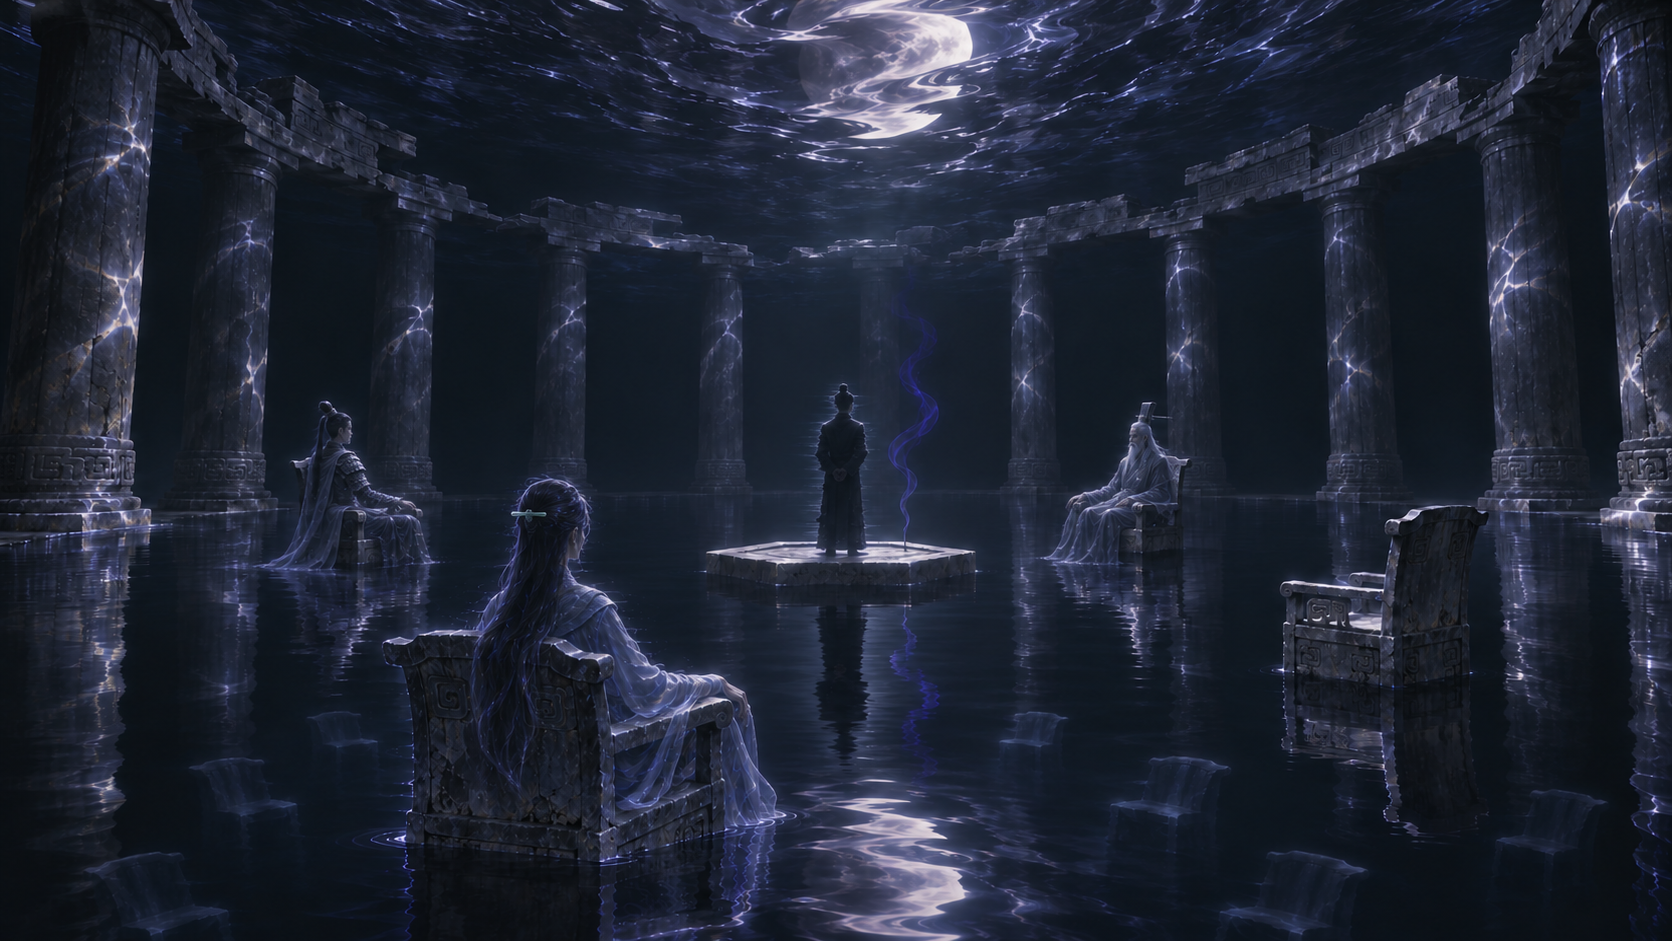
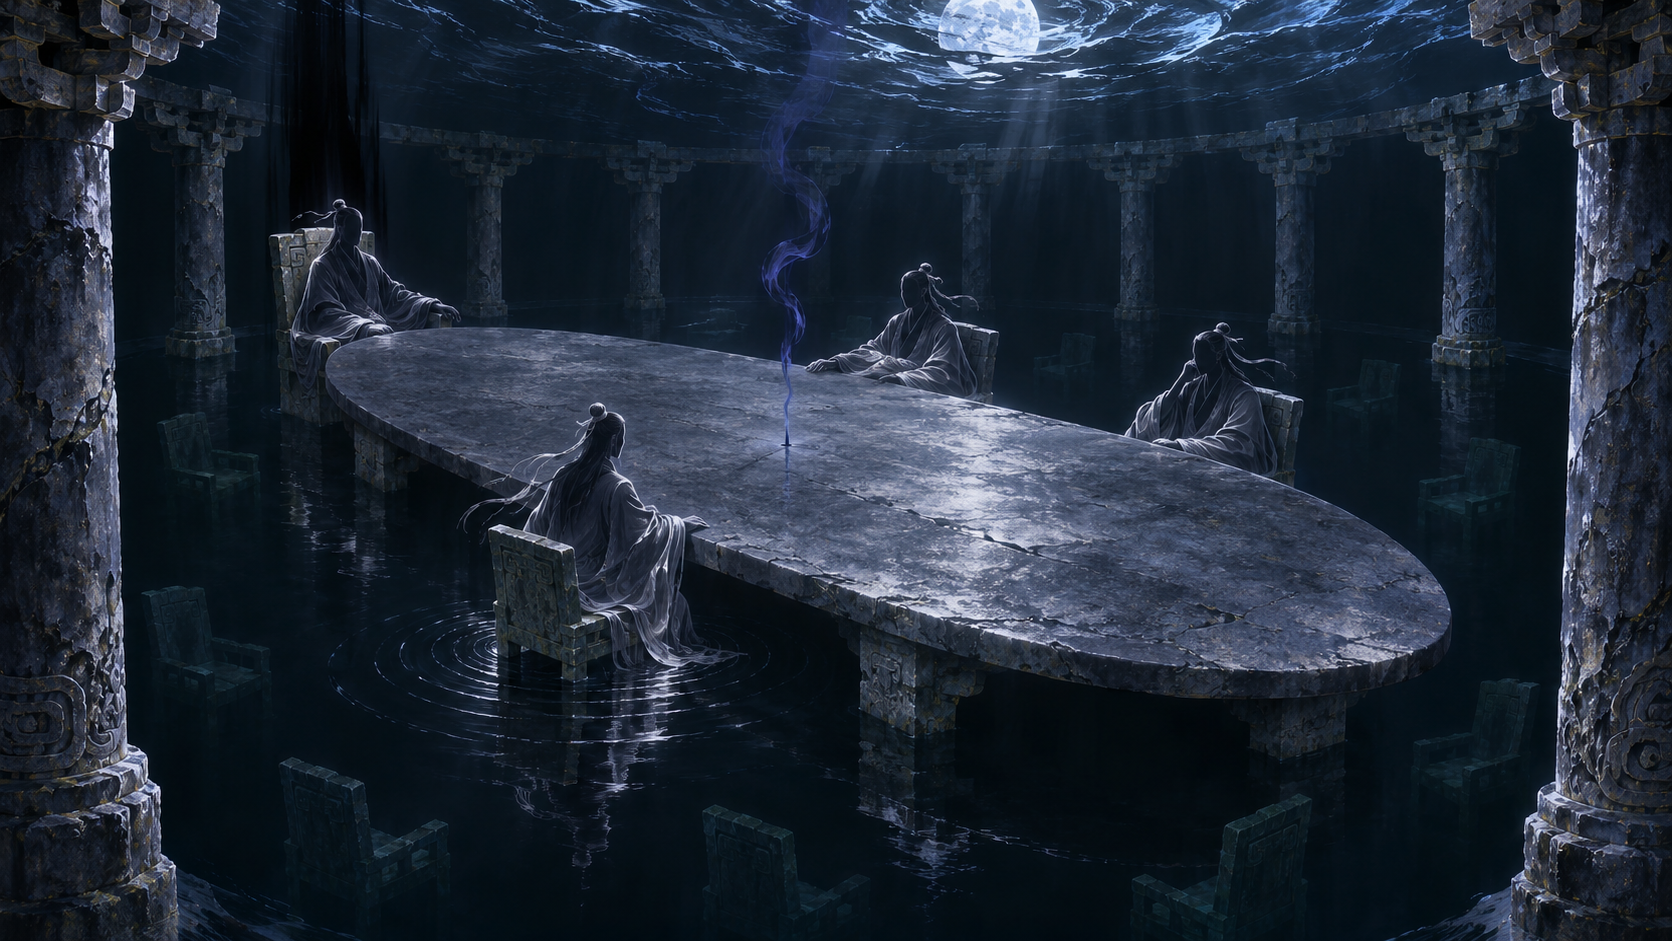
Replace Underwater Pavilion artwork with new round-table meeting scene

diff --git a/sw.js b/sw.js
@@ -1,4 +1,4 @@
-const CACHE_NAME = 'dust-above-heavens-v39';
+const CACHE_NAME = 'dust-above-heavens-v40';
 
 // Cache ONLY core lightweight app shell assets on install (< 100 KB total)
 // High-res covers and audio are cached on-demand at runtime to prevent mobile install timeout/failure!
